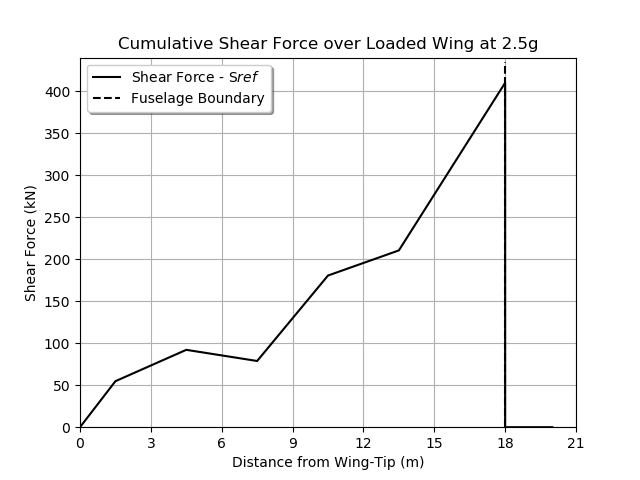
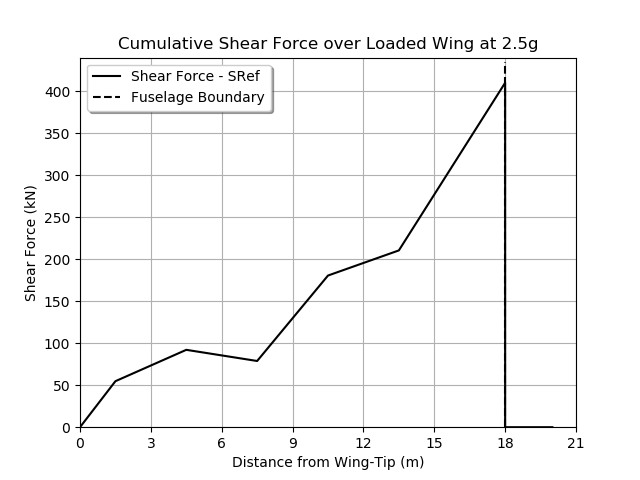
Update graph legends.

Changed region(s): [[0.125, 0.125, 0.4375, 0.25]]

diff --git a/extraGraphs.py b/extraGraphs.py
@@ -28,7 +28,7 @@ tref.append(trefEnd6)
 # Plot Bending Moment Curve
 
 plt.figure(1)
-plt.plot(wingtipdistance, sref, 'k-', label='Shear Force - S$ref$')
+plt.plot(wingtipdistance, sref, 'k-', label='Shear Force - SRef')
 plt.plot([18,18], [0, 435], 'k--', label='Fuselage Boundary')
 plt.xlabel('Distance from Wing-Tip (m)')
 plt.xlim([0, wingtipdistance[-1]])
@@ -41,7 +41,7 @@ plt.title("Cumulative Shear Force over Loaded Wing at 2.5g")
 plt.savefig('sref1.png')
 
 plt.figure(2)
-plt.plot(wingtipdistance, mref, 'k-', label='Bending Moment Force - M$ref$')
+plt.plot(wingtipdistance, mref, 'k-', label='Bending Moment - MRef')
 plt.plot([18,18], [0, 3640], 'k--', label='Fuselage Boundary')
 plt.xlabel('Distance from Wing-Tip (m)')
 plt.xlim([0, wingtipdistance[-1]])
@@ -54,7 +54,7 @@ plt.title("Bending Moment over Loaded Wing at 2.5g")
 plt.savefig('mref1.png')
 
 plt.figure(3)
-plt.plot(wingtipdistance, tref, 'k-', label='Torque - T$ref$')
+plt.plot(wingtipdistance, tref, 'k-', label='Torque - TRef')
 plt.plot([18,18], [0, -520], 'k--', label='Fuselage Boundary')
 plt.xlim([0, wingtipdistance[-1]])
 plt.xlabel('Distance from Wing-Tip (m)')
